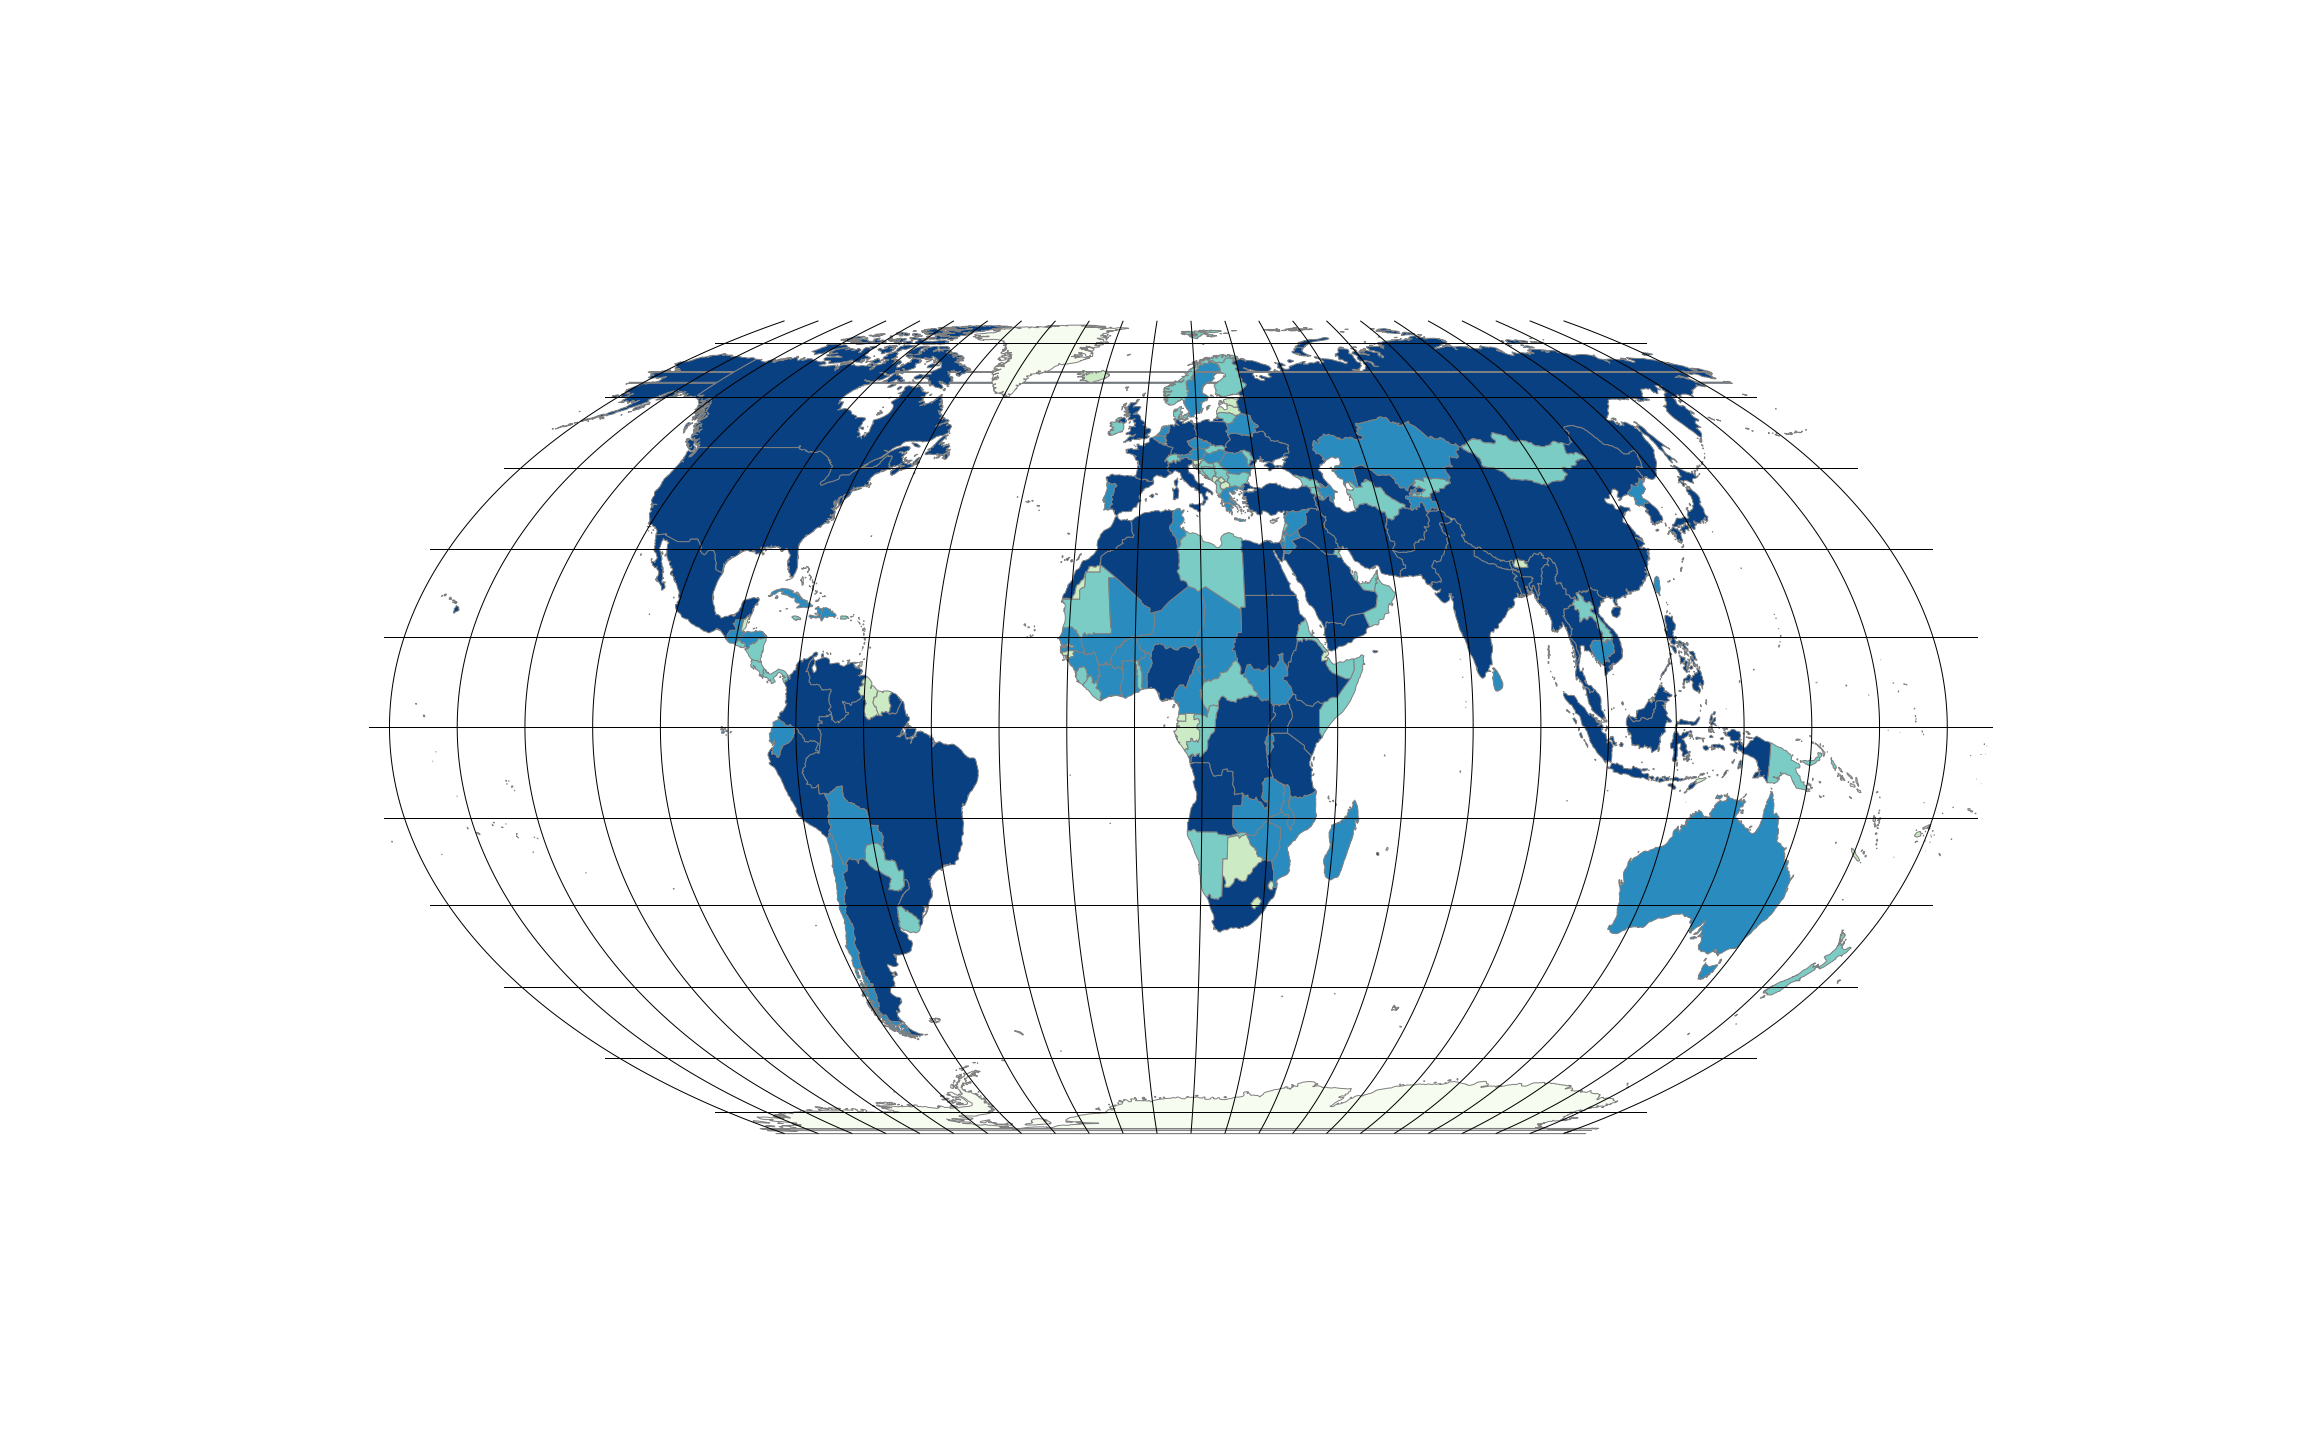
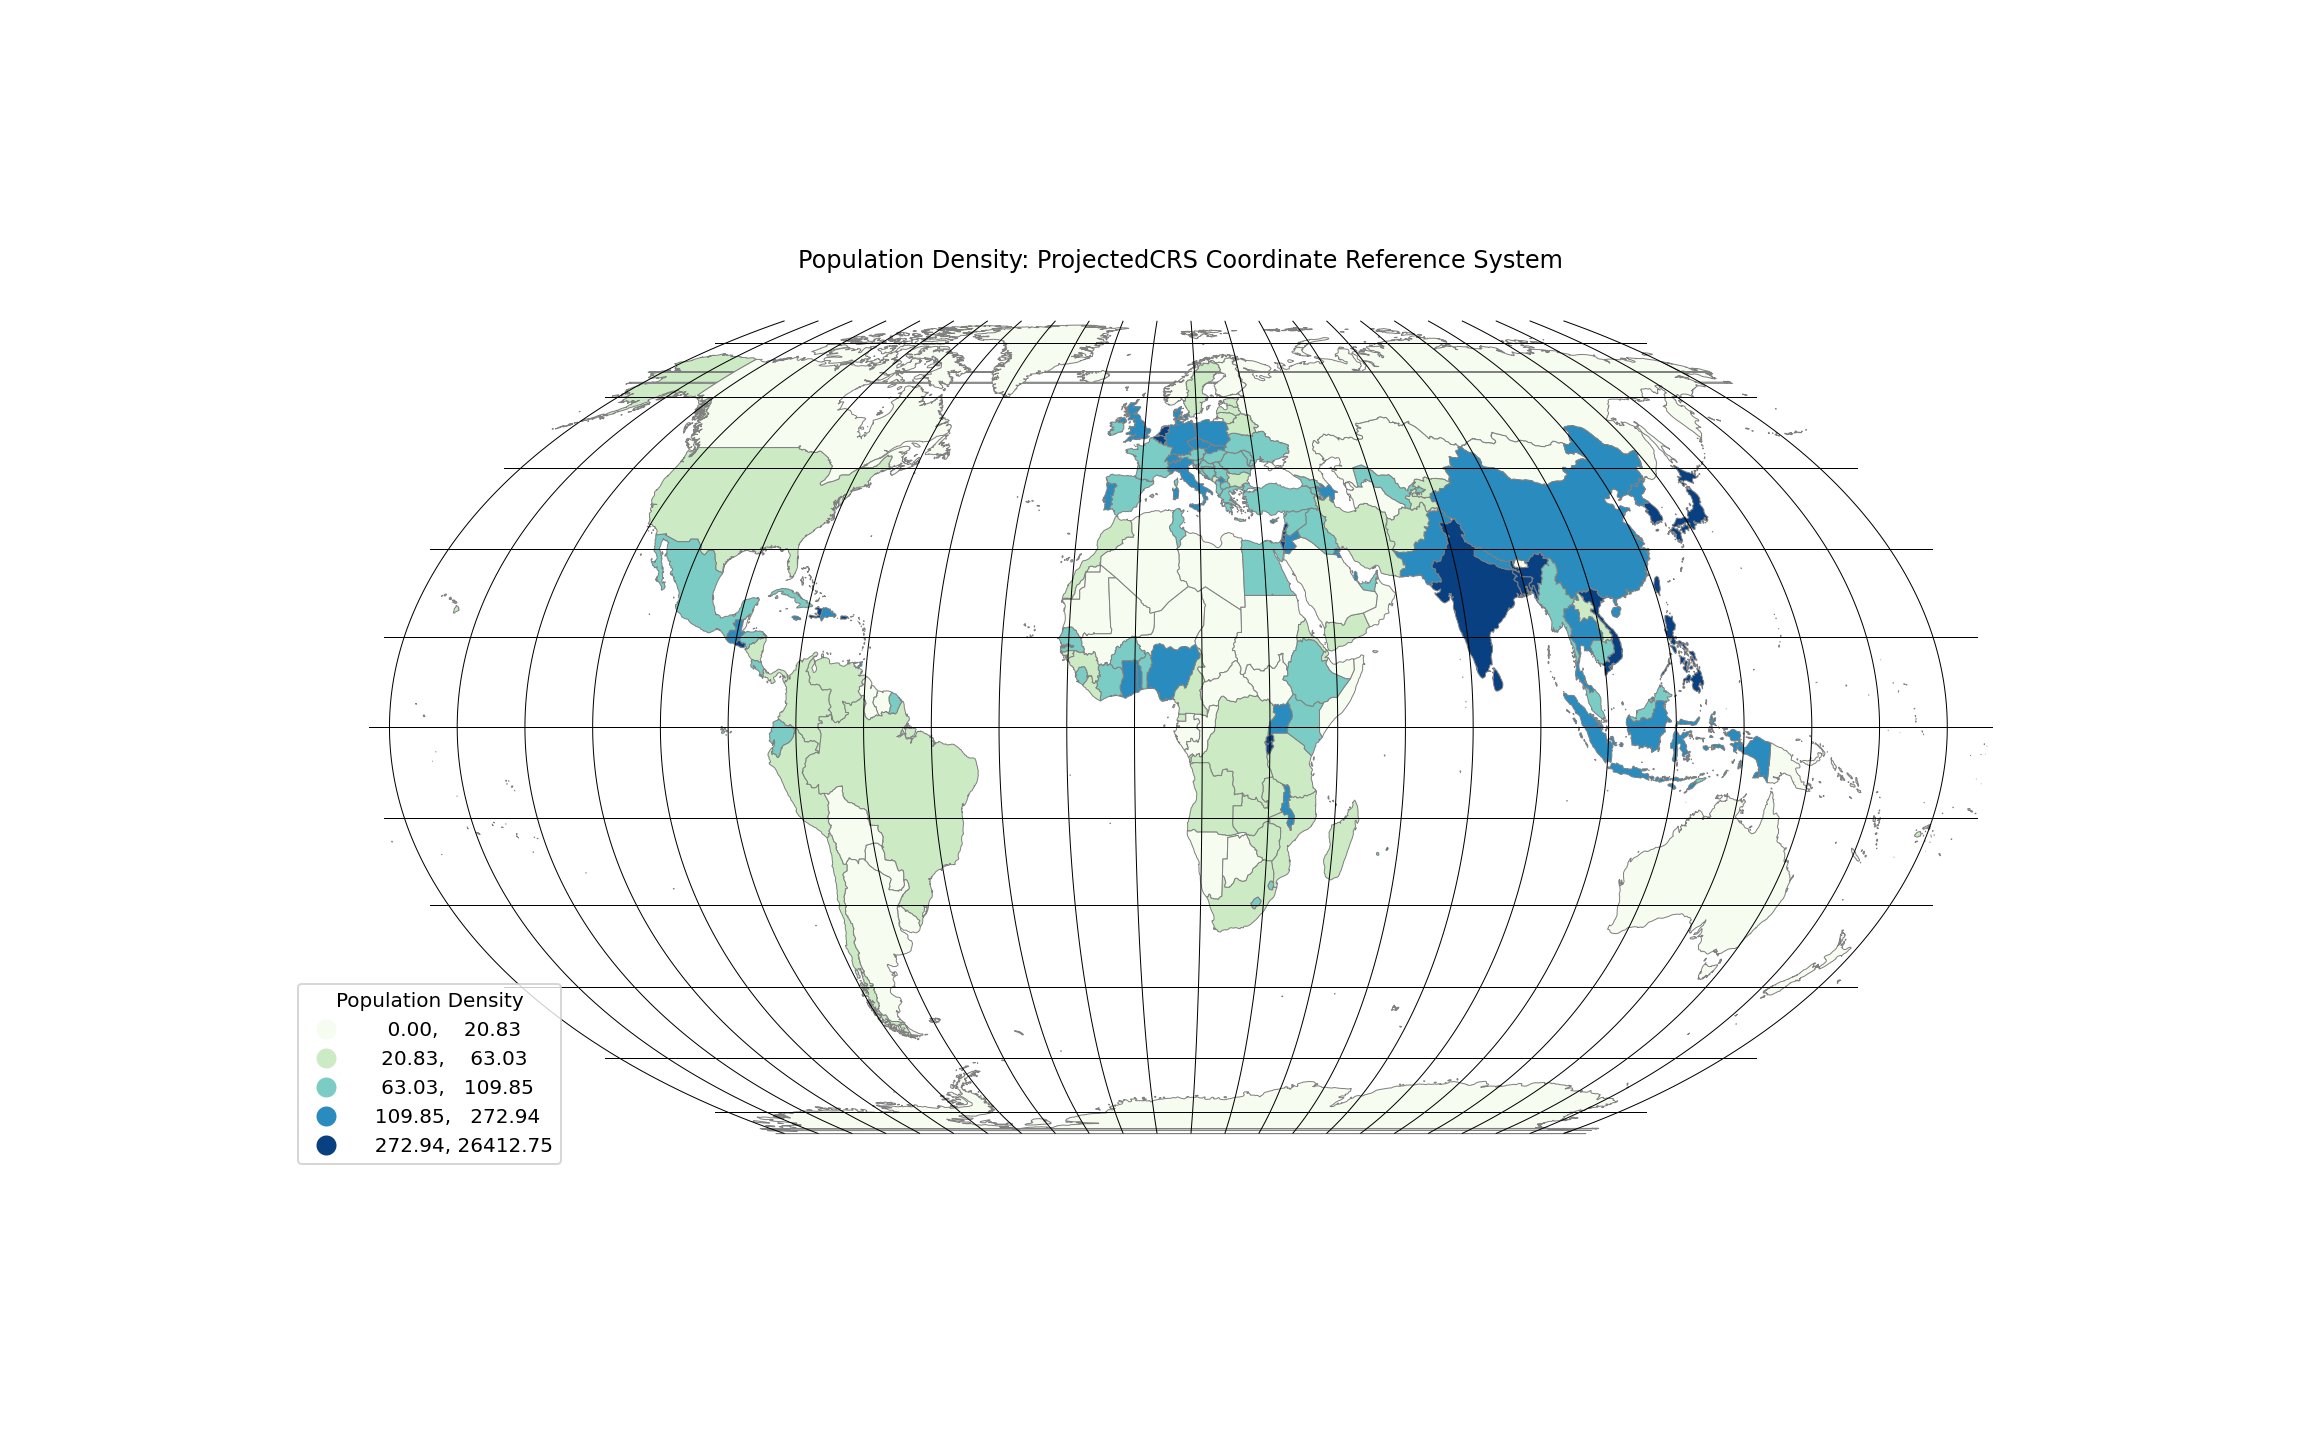
I have added world dataset as GeoDataFrame

diff --git a/week1/week1.py b/week1/week1.py
@@ -20,6 +20,8 @@ bbox = read_file("../../data/natural-earth/ne_110m_wgs84_bounding_box.shp")
 #CRS Pejection import
 ea_proj = "+proj=wag4 +lon_0=10 +datum=WGS84 +units=m +no_defs"
 
+my_ax.set(title="Population Density: ProjectedCRS Coordinate Reference System")
+
 # reproject all three layers to equal earth
 world = world.to_crs(ea_proj)
 graticule = graticule.to_crs(ea_proj)
@@ -39,12 +41,19 @@ bbox.plot(
 # plot the countries
 world.plot(								# plot the world dataset
     ax = my_ax,						# specify the axis object to draw it to
-    column = 'POP_EST',		# specify the column used to style the dataset
+    column = 'pop_density',		# specify the column used to style the dataset
     cmap = 'GnBu',				# specify the colour map used to style the dataset based on POP_EST
     scheme = 'quantiles',	# specify how the colour map will be mapped to the values in POP_EST
     linewidth = 0.5,			# specify the line width for the country outlines
-    edgecolor = 'gray',		# specify the line colour for the country outlines
+    edgecolor = 'gray',
+legend = True,
+legend_kwds = {
+    'loc': 'lower left',
+    'title': 'Population Density'
+    }		# specify the line colour for the country outlines
     )
+
+
 
 # plot the graticule
 graticule.plot(
